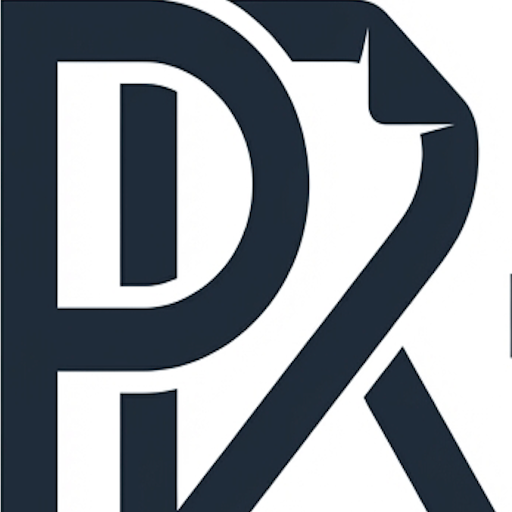
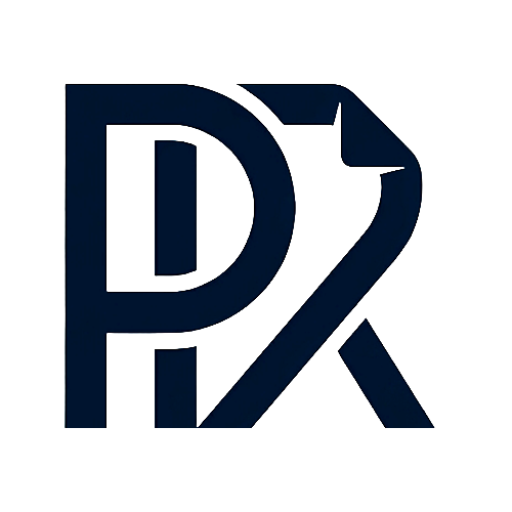
fixed loader and fevicon

diff --git a/apps/landing/components/Footer.tsx b/apps/landing/components/Footer.tsx
@@ -52,7 +52,7 @@ export function Footer() {
     const { socials } = useMemo(() => FooterJson, []);
 
     return (
-        <footer className="bg-gray-900 text-gray-400">
+        <footer className="bg-gray-50 text-gray-600">
             {/* Main Footer Content */}
             <div className="max-w-7xl mx-auto px-4 sm:px-6 lg:px-8 py-12">
                 <div className="grid md:grid-cols-2 lg:grid-cols-5 gap-8 mb-12">
@@ -73,7 +73,7 @@ export function Footer() {
                         <div className="space-y-3 text-sm mb-6">
                             <div className="flex items-center gap-3">
                                 <Mail className="w-4 h-4 text-blue-500" />
-                                <a href="mailto:avinashmanitripathi97@gmail.com" className="hover:text-white transition-colors">
+                                <a href="mailto:avinashmanitripathi97@gmail.com" className="hover:text-blue-600 transition-colors">
                                     avinashmanitripathi97@gmail.com
                                 </a>
                             </div>
@@ -92,8 +92,8 @@ export function Footer() {
                             {
                                 socials.links.map((el) =>
                                     <a key={el.name} aria-label={el.name} href={el.url} target="_blank" rel="noopener noreferrer"
-                                        className="w-10 h-10 bg-gray-800 hover:bg-blue-600 rounded-lg flex items-center justify-center transition-colors">
-                                        <el.icon className="w-5 h-5 text-white" />
+                                        className="w-10 h-10 bg-white border border-gray-200 hover:bg-blue-600 hover:border-blue-600 group rounded-lg flex items-center justify-center transition-colors">
+                                        <el.icon className="w-5 h-5 text-gray-600 group-hover:text-white transition-colors" />
                                     </a>
                                 )
                             }
@@ -102,58 +102,58 @@ export function Footer() {
 
                     {/* Product Links */}
                     <div>
-                        <h4 className="text-white font-bold mb-4 text-sm uppercase tracking-wider">Product</h4>
+                        <h4 className="text-gray-900 font-bold mb-4 text-sm uppercase tracking-wider">Product</h4>
                         <ul className="space-y-3 text-sm">
-                            <li><Link href="/resume-builder" className="hover:text-white transition-colors">Resume Builder</Link></li>
-                            <li><Link href="/templates" className="hover:text-white transition-colors">Resume Templates</Link></li>
-                            <li><Link href="/tailor" className="hover:text-white transition-colors">AI Resume Tailoring</Link></li>
-                            <li><Link href="/ats-checker" className="hover:text-white transition-colors">ATS Checker</Link></li>
-                            <li><Link href="/cover-letter" className="hover:text-white transition-colors">Cover Letter Builder</Link></li>
-                            <li><Link href="/resume-examples" className="hover:text-white transition-colors">Resume Examples</Link></li>
+                            <li><Link href="/resume-builder" className="hover:text-blue-600 transition-colors">Resume Builder</Link></li>
+                            <li><Link href="/templates" className="hover:text-blue-600 transition-colors">Resume Templates</Link></li>
+                            <li><Link href="/tailor" className="hover:text-blue-600 transition-colors">AI Resume Tailoring</Link></li>
+                            <li><Link href="/ats-checker" className="hover:text-blue-600 transition-colors">ATS Checker</Link></li>
+                            <li><Link href="/cover-letter" className="hover:text-blue-600 transition-colors">Cover Letter Builder</Link></li>
+                            <li><Link href="/resume-examples" className="hover:text-blue-600 transition-colors">Resume Examples</Link></li>
                         </ul>
                     </div>
 
                     {/* Resources Links */}
                     <div>
-                        <h4 className="text-white font-bold mb-4 text-sm uppercase tracking-wider">Resources</h4>
+                        <h4 className="text-gray-900 font-bold mb-4 text-sm uppercase tracking-wider">Resources</h4>
                         <ul className="space-y-3 text-sm">
-                            <li><Link href="/resources/resume-guide" className="hover:text-white transition-colors">Resume Writing Guide</Link></li>
-                            <li><Link href="/resources/cover-letter-guide" className="hover:text-white transition-colors">Cover Letter Guide</Link></li>
-                            <li><Link href="/resources/ats-guide" className="hover:text-white transition-colors">ATS Guide</Link></li>
-                            <li><Link href="/resources/career-tips" className="hover:text-white transition-colors">Career Tips</Link></li>
-                            <li><Link href="/resources/industry-examples" className="hover:text-white transition-colors">Industry Examples</Link></li>
-                            <li><Link href="/resources/ai-resume-review" className="hover:text-white transition-colors">AI Resume Review</Link></li>
-                            <li><Link href="/resources/resume-checker" className="hover:text-white transition-colors">Resume Checker</Link></li>
-                            <li><Link href="/resources/resume-keyword-generator" className="hover:text-white transition-colors">Keyword Generator</Link></li>
-                            <li><Link href="/resources/resume-booster" className="hover:text-white transition-colors">Resume Booster</Link></li>
-                            <li><Link href="/resources/resume-fixer" className="hover:text-white transition-colors">Resume Fixer</Link></li>
-                            <li><Link href="/resources/resume-scanner" className="hover:text-white transition-colors">Resume Scanner</Link></li>
-                            <li><Link href="/resources/resume-critique" className="hover:text-white transition-colors">Resume Critique</Link></li>
-                            <li><Link href="/resources/targeted-resume" className="hover:text-white transition-colors">Targeted Resume</Link></li>
-                            <li><Link href="/resources/for-organizations" className="hover:text-white transition-colors">For Organizations</Link></li>
-                            <li><Link href="/resources/update-your-resume-io-resume" className="hover:text-white transition-colors">Update Resume.io</Link></li>
-                            <li><Link href="/blog" className="hover:text-white transition-colors">Blog</Link></li>
+                            <li><Link href="/resources/resume-guide" className="hover:text-blue-600 transition-colors">Resume Writing Guide</Link></li>
+                            <li><Link href="/resources/cover-letter-guide" className="hover:text-blue-600 transition-colors">Cover Letter Guide</Link></li>
+                            <li><Link href="/resources/ats-guide" className="hover:text-blue-600 transition-colors">ATS Guide</Link></li>
+                            <li><Link href="/resources/career-tips" className="hover:text-blue-600 transition-colors">Career Tips</Link></li>
+                            <li><Link href="/resources/industry-examples" className="hover:text-blue-600 transition-colors">Industry Examples</Link></li>
+                            <li><Link href="/resources/ai-resume-review" className="hover:text-blue-600 transition-colors">AI Resume Review</Link></li>
+                            <li><Link href="/resources/resume-checker" className="hover:text-blue-600 transition-colors">Resume Checker</Link></li>
+                            <li><Link href="/resources/resume-keyword-generator" className="hover:text-blue-600 transition-colors">Keyword Generator</Link></li>
+                            <li><Link href="/resources/resume-booster" className="hover:text-blue-600 transition-colors">Resume Booster</Link></li>
+                            <li><Link href="/resources/resume-fixer" className="hover:text-blue-600 transition-colors">Resume Fixer</Link></li>
+                            <li><Link href="/resources/resume-scanner" className="hover:text-blue-600 transition-colors">Resume Scanner</Link></li>
+                            <li><Link href="/resources/resume-critique" className="hover:text-blue-600 transition-colors">Resume Critique</Link></li>
+                            <li><Link href="/resources/targeted-resume" className="hover:text-blue-600 transition-colors">Targeted Resume</Link></li>
+                            <li><Link href="/resources/for-organizations" className="hover:text-blue-600 transition-colors">For Organizations</Link></li>
+                            <li><Link href="/resources/update-your-resume-io-resume" className="hover:text-blue-600 transition-colors">Update Resume.io</Link></li>
+                            <li><Link href="/blog" className="hover:text-blue-600 transition-colors">Blog</Link></li>
                         </ul>
                     </div>
 
                     {/* Company Links */}
                     <div>
-                        <h4 className="text-white font-bold mb-4 text-sm uppercase tracking-wider">Company</h4>
+                        <h4 className="text-gray-900 font-bold mb-4 text-sm uppercase tracking-wider">Company</h4>
                         <ul className="space-y-3 text-sm">
-                            <li><Link href="/about" className="hover:text-white transition-colors">About Us</Link></li>
-                            <li><Link href="/pricing" className="hover:text-white transition-colors">Pricing</Link></li>
-                            <li><Link href="/contact" className="hover:text-white transition-colors">Contact</Link></li>
-                            <li><Link href="/help" className="hover:text-white transition-colors">Help Center</Link></li>
-                            <li><Link href="/privacy" className="hover:text-white transition-colors">Privacy Policy</Link></li>
-                            <li><Link href="/terms" className="hover:text-white transition-colors">Terms of Service</Link></li>
+                            <li><Link href="/about" className="hover:text-blue-600 transition-colors">About Us</Link></li>
+                            <li><Link href="/pricing" className="hover:text-blue-600 transition-colors">Pricing</Link></li>
+                            <li><Link href="/contact" className="hover:text-blue-600 transition-colors">Contact</Link></li>
+                            <li><Link href="/help" className="hover:text-blue-600 transition-colors">Help Center</Link></li>
+                            <li><Link href="/privacy" className="hover:text-blue-600 transition-colors">Privacy Policy</Link></li>
+                            <li><Link href="/terms" className="hover:text-blue-600 transition-colors">Terms of Service</Link></li>
                         </ul>
                     </div>
                 </div>
 
                 {/* Newsletter Section */}
-                <div className="border-t border-gray-800 pt-8 pb-8">
+                <div className="border-t border-gray-200 pt-8 pb-8">
                     <div className="max-w-2xl mx-auto text-center">
-                        <h3 className="text-white font-bold text-xl mb-2">Get Career Tips & Resume Advice</h3>
+                        <h3 className="text-gray-900 font-bold text-xl mb-2">Get Career Tips & Resume Advice</h3>
                         <p className="text-sm mb-6">Join 50,000+ subscribers getting weekly career tips, resume templates, and job search strategies.</p>
 
                         <form onSubmit={handleSubscribe} className="flex gap-3 max-w-md mx-auto">
@@ -163,7 +163,7 @@ export function Footer() {
                                 onChange={(e) => setEmail(e.target.value)}
                                 placeholder="Enter your email"
                                 required
-                                className="flex-1 px-4 py-3 bg-gray-800 border border-gray-700 rounded-lg focus:outline-none focus:border-blue-500 text-white placeholder-gray-500"
+                                className="flex-1 px-4 py-3 bg-white border border-gray-200 rounded-lg focus:outline-none focus:border-blue-500 text-gray-900 placeholder-gray-400"
                             />
                             <button
                                 type="submit"
@@ -183,16 +183,16 @@ export function Footer() {
                 </div>
 
                 {/* Bottom Bar */}
-                <div className="border-t border-gray-800 pt-8">
+                <div className="border-t border-gray-200 pt-8">
                     <div className="flex flex-col md:flex-row justify-between items-center gap-4">
                         <p className="text-sm">
                             © {new Date().getFullYear()} ProfResume. All rights reserved.
                         </p>
                         <div className="flex flex-wrap gap-6 text-sm">
-                            <Link href="/sitemap.xml" className="hover:text-white transition-colors">Sitemap</Link>
-                            <Link href="/accessibility" className="hover:text-white transition-colors">Accessibility</Link>
-                            <Link href="/security" className="hover:text-white transition-colors">Security</Link>
-                            <Link href="/cookies" className="hover:text-white transition-colors">Cookie Policy</Link>
+                            <Link href="/sitemap.xml" className="hover:text-blue-600 transition-colors">Sitemap</Link>
+                            <Link href="/accessibility" className="hover:text-blue-600 transition-colors">Accessibility</Link>
+                            <Link href="/security" className="hover:text-blue-600 transition-colors">Security</Link>
+                            <Link href="/cookies" className="hover:text-blue-600 transition-colors">Cookie Policy</Link>
                         </div>
                     </div>
 

diff --git a/apps/admin/components/AdminSidebar.tsx b/apps/admin/components/AdminSidebar.tsx
@@ -52,25 +52,24 @@ export function AdminSidebar() {
 
       {/* Sidebar */}
       <aside
-        className={`admin-sidebar h-full fixed left-0 top-0 h-screen w-64 gradient-sidebar text-white flex flex-col z-50 dark-scrollbar transition-all duration-300 ${isMobileOpen ? "open" : ""}`}
+        className={`admin-sidebar h-full fixed left-0 top-0 h-screen w-64 gradient-sidebar border-r border-gray-200 text-slate-900 flex flex-col z-50 transition-all duration-300 ${isMobileOpen ? "open" : ""}`}
       >
         {/* Logo Section */}
-        <div className="p-6 border-b border-white/10">
+        <div className="p-6 border-b border-gray-100">
           <Link href="/" className="flex items-center gap-3 group">
             <div className="relative">
-              <div className="w-11 h-11 gradient-primary rounded-xl flex items-center justify-center shadow-lg group-hover:scale-110 transition-transform duration-300">
+              <div className="w-11 h-11 flex items-center justify-center">
                 <img
-                  src="/icon.png"
+                  src="/favicon.ico"
                   alt="ProfResume Logo"
-                  style={{ width: "40px", height: '40px' }}
                   className="w-9 h-9 transition-transform group-hover:scale-105"
                 />
               </div>
               <div className="absolute -inset-1 gradient-primary rounded-xl opacity-0 group-hover:opacity-20 blur transition-opacity duration-300" />
             </div>
             <div>
-              <h1 className="text-lg font-bold">ProfResume</h1>
-              <p className="text-xs text-gray-400">Admin Panel</p>
+              <h1 className="text-lg font-bold text-gray-900">ProfResume</h1>
+              <p className="text-xs text-gray-500">Admin Panel</p>
             </div>
           </Link>
         </div>
@@ -86,8 +85,8 @@ export function AdminSidebar() {
                 href={item.href}
                 onClick={closeMobileMenu}
                 className={`group flex items-center gap-3 px-4 py-3 rounded-xl text-sm font-medium transition-all duration-200 ${isActive
-                  ? "bg-white/10 text-white shadow-lg backdrop-blur-sm"
-                  : "text-gray-300 hover:bg-white/5 hover:text-white"
+                  ? "bg-blue-50 text-blue-600 shadow-sm"
+                  : "text-slate-600 hover:bg-slate-50 hover:text-slate-900"
                   }`}
               >
                 <Icon
@@ -103,19 +102,19 @@ export function AdminSidebar() {
         </nav>
 
         {/* User Profile Section */}
-        <div className="p-4 border-t border-white/10">
-          <div className="flex items-center gap-3 px-4 py-3 rounded-xl bg-white/5 mb-2">
+        <div className="p-4 border-t border-gray-100">
+          <div className="flex items-center gap-3 px-4 py-3 rounded-xl bg-slate-50 mb-2">
             <div className="w-10 h-10 rounded-full bg-gradient-to-br from-blue-500 to-purple-500 flex items-center justify-center font-semibold text-sm">
               AD
             </div>
             <div className="flex-1 min-w-0">
-              <p className="text-sm font-medium text-white truncate">Admin User</p>
-              <p className="text-xs text-gray-400 truncate">admin@example.com</p>
+              <p className="text-sm font-medium text-gray-900 truncate">Admin User</p>
+              <p className="text-xs text-gray-500 truncate">admin@example.com</p>
             </div>
           </div>
 
           {/* Logout Button */}
-          <button className="flex items-center gap-3 px-4 py-3 rounded-xl text-sm font-medium text-gray-300 hover:bg-red-500/10 hover:text-red-400 transition-all duration-200 w-full group">
+          <button className="flex items-center gap-3 px-4 py-3 rounded-xl text-sm font-medium text-slate-600 hover:bg-red-50 hover:text-red-600 transition-all duration-200 w-full group">
             <LogOut className="w-5 h-5 group-hover:scale-110 transition-transform duration-200" />
             <span>Logout</span>
           </button>

diff --git a/packages/ui/src/profile-header.tsx b/packages/ui/src/profile-header.tsx
@@ -1,7 +1,8 @@
 "use client";
 
-import { Share2, Download, Undo, Redo, RotateCcw, RotateCw, ZoomIn, ZoomOut, CircleArrowUp, CircleArrowDown, MousePointer, Hand, Undo2, Redo2, PencilLine } from "lucide-react";
+import { Share2, Download, Undo, Redo, RotateCcw, RotateCw, ZoomIn, ZoomOut, CircleArrowUp, CircleArrowDown, MousePointer, Hand, Undo2, Redo2, PencilLine, Loader2 } from "lucide-react";
 import { Button } from "./button";
+import { useState } from "react";
 
 interface ProfileHeaderProps {
     name: string;
@@ -9,7 +10,7 @@ interface ProfileHeaderProps {
     profileImage?: string;
     progress?: number;
     onShare?: () => void;
-    onDownload?: () => void;
+    onDownload?: () => Promise<void>;
     onUndo?: () => void;
     onRedo?: () => void;
     canUndo?: boolean;
@@ -47,6 +48,9 @@ export function ProfileHeader({
     onZoomOut,
     onProfileImageChange,
 }: ProfileHeaderProps) {
+
+    const [isDownloading, setIsDownloading] = useState(false);
+
     const handleImageUpload = (e: React.ChangeEvent<HTMLInputElement>) => {
         const file = e.target.files?.[0];
         if (file && onProfileImageChange) {
@@ -57,6 +61,14 @@ export function ProfileHeader({
                 onProfileImageChange(base64String);
             };
             reader.readAsDataURL(file);
+        }
+    };
+
+    const handleDownload = async () => {
+        if (onDownload) {
+            setIsDownloading(true);
+            await onDownload();
+            setIsDownloading(false);
         }
     };
 
@@ -98,7 +110,7 @@ export function ProfileHeader({
                     <Button variant="outline" onClick={onShare} className="md:hidden">
                         <Share2 size={18} />
                     </Button>
-                    <Button variant="outline" onClick={onDownload} className="md:hidden">
+                    <Button variant="outline" onClick={handleDownload} className="md:hidden">
                         <Download size={18} />
                     </Button>
                     <div className="hidden md:flex  ml-2 md:ml-4  items-center gap-2">
@@ -215,9 +227,18 @@ export function ProfileHeader({
                             <Share2 className="w-4 h-4 md:mr-2" />
                             <span >Share</span>
                         </Button>
-                        <Button onClick={onDownload} variant="primary" className="flex-1 md:flex-initial">
-                            <Download className="w-4 h-4 md:mr-2" />
-                            <span >Download</span>
+                        <Button onClick={handleDownload} variant="primary" className="flex-1 md:flex-initial">
+                            {isDownloading ? (
+                                <>
+                                    <Loader2 className="w-4 h-4 mr-2 animate-spin" />
+                                    <span>Downloading</span>
+                                </>
+                            ) : (
+                                <>
+                                    <Download className="w-4 h-4 md:mr-2" />
+                                    <span>Download</span>
+                                </>
+                            )}
                         </Button>
                     </div>
                 </div>

diff --git a/apps/auth/src/app/signin/page.tsx b/apps/auth/src/app/signin/page.tsx
@@ -35,10 +35,13 @@ function SignInContent() {
                 {/* Left Side - Branding */}
                 <div className="space-y-6 animate-fade-in">
                     <div className="flex items-center gap-3 animate-slide-in-left">
-                        <div className="w-12 h-12 bg-gradient-to-br from-blue-600 to-purple-600 rounded-xl flex items-center justify-center shadow-lg hover:shadow-xl transition-shadow duration-300">
-                            <FileText className="w-7 h-7 text-white" />
+                        <div className="flex items-center gap-2 mb-4">
+                            <img
+                                src="/logo.png"
+                                alt="ProfResume Logo"
+                                className="w-15 h-9 transition-transform group-hover:scale-105"
+                            />
                         </div>
-                        <h1 className="text-3xl font-bold text-gray-900">Resume Builder</h1>
                     </div>
 
                     <h2 className="text-4xl font-bold text-gray-900 leading-tight animate-slide-in-left animation-delay-100">

diff --git a/apps/editor/src/app/editor/page.tsx b/apps/editor/src/app/editor/page.tsx
@@ -517,7 +517,7 @@ function ResumeEditor() {
   }, [urlTemplateId, defaultTemplateId, renderPdf]);
 
   // Memoized handlers for ProfileHeader - prevents re-renders
-  const handleDownload = useCallback(() => {
+  const handleDownload = useCallback(async () => {
     // Check subscription before allowing download
     if (!canDownload()) {
       router.push('/subscription?returnTo=editor');
@@ -531,7 +531,7 @@ function ResumeEditor() {
       ...resume,
       order: sectionOrder
     };
-    downloadPdf(apiUrl, "resume", resumeData);
+    await downloadPdf(apiUrl, "resume", resumeData);
   }, [router, templateId, sectionLabels, fontFamily, resume, sectionOrder, apiUrl]);
 
   const handleShare = useCallback(() => {

diff --git a/apps/admin/app/globals.css b/apps/admin/app/globals.css
@@ -15,12 +15,12 @@
   --foreground-secondary: #475569;
 
   /* Sidebar Colors */
-  --sidebar-bg-start: #0F172A;
-  --sidebar-bg-end: #1E293B;
-  --sidebar-text: #E2E8F0;
-  --sidebar-text-muted: #94A3B8;
-  --sidebar-active-bg: rgba(59, 130, 246, 0.15);
-  --sidebar-hover-bg: rgba(255, 255, 255, 0.05);
+  --sidebar-bg-start: #FFFFFF;
+  --sidebar-bg-end: #F8FAFC;
+  --sidebar-text: #1E293B;
+  --sidebar-text-muted: #64748B;
+  --sidebar-active-bg: rgba(59, 130, 246, 0.1);
+  --sidebar-hover-bg: rgba(59, 130, 246, 0.05);
 
   /* Primary Colors */
   --primary: #3B82F6;
